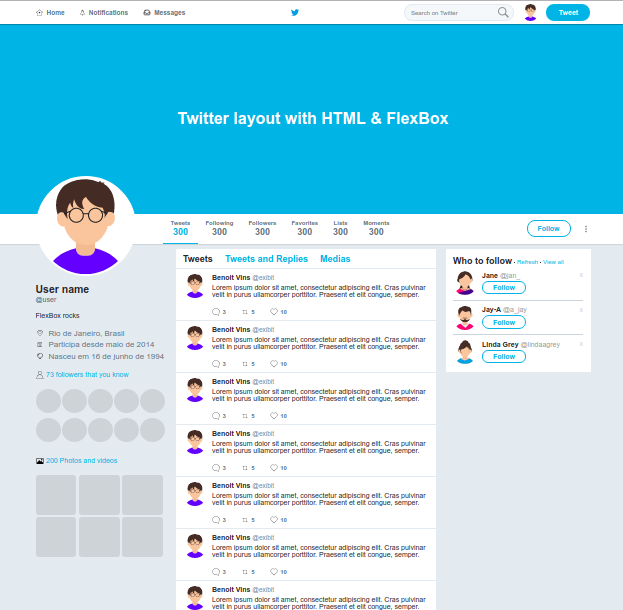
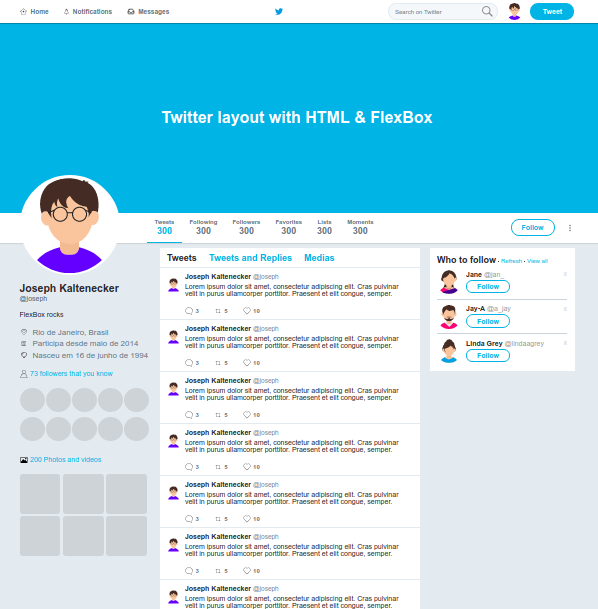
Fix

diff --git a/index.html b/index.html
@@ -68,8 +68,8 @@
     <div class="wrapper-content content">
       <aside class="profile">
         <img class="avatar" src="images/avatar.svg" alt="User">
-        <h1>User name</h1>
-        <span>@user</span>
+        <h1>Joseph Kaltenecker</h1>
+        <span>@joseph</span>
         <p>FlexBox rocks</p>
 
         <ul class="info">
@@ -126,202 +126,160 @@
         </nav>
 
         <ul class="tweets">
-          <li>
-            <img src="/images/avatar.svg" alt="Avatar">
-            <div class="info">
-              <strong>Benoit Vins <span>@exibit</span></strong>
-              <p>Lorem ipsum dolor sit amet, consectetur adipiscing elit. Cras pulvinar velit in purus ullamcorper porttitor. Praesent et elit congue, semper.
-              </p>
-              <div class="actions">
-                <a href=""><img class="images" src="/images/comment.svg" alt="Comments"> 3</a>
-                <a href=""><img class="images" src="/images/retweet.svg" alt="Retweets"> 5</a>
-                <a href=""><img class="images" src="/images/like.svg" alt="Likes"> 10</a>
+            <li>
+              <img src="/images/avatar.svg" alt="Avatar">
+              <div class="info">
+                <strong>Joseph Kaltenecker <span>@joseph</span></strong>
+                <p>Lorem ipsum dolor sit amet, consectetur adipiscing elit. Cras pulvinar velit in purus ullamcorper porttitor. Praesent et elit congue, semper.
+                </p>
+                <div class="actions">
+                  <a href=""><img class="images" src="/images/comment.svg" alt="Comments"> 3</a>
+                  <a href=""><img class="images" src="/images/retweet.svg" alt="Retweets"> 5</a>
+                  <a href=""><img class="images" src="/images/like.svg" alt="Likes"> 10</a>
+                </div>
+  
               </div>
+            </li>
+            <li>
+              <img src="/images/avatar.svg" alt="Avatar">
+              <div class="info">
+                <strong>Joseph Kaltenecker <span>@joseph</span></strong>
+                <p>Lorem ipsum dolor sit amet, consectetur adipiscing elit. Cras pulvinar velit in purus ullamcorper porttitor. Praesent et elit congue, semper.
+                </p>
+                <div class="actions">
+                  <a href=""><img class="images" src="/images/comment.svg" alt="Comments"> 3</a>
+                  <a href=""><img class="images" src="/images/retweet.svg" alt="Retweets"> 5</a>
+                  <a href=""><img class="images" src="/images/like.svg" alt="Likes"> 10</a>
+                </div>
 
-            </div>
-          </li>
-          <li>
-            <img src="/images/avatar.svg" alt="Avatar">
-            <div class="info">
-              <strong>Benoit Vins <span>@exibit</span></strong>
-              <p>Lorem ipsum dolor sit amet, consectetur adipiscing elit. Cras pulvinar velit in purus ullamcorper porttitor. Praesent et elit congue, semper.
-              </p>
-              <div class="actions">
-                <a href=""><img class="images" src="/images/comment.svg" alt="Comments"> 3</a>
-                <a href=""><img class="images" src="/images/retweet.svg" alt="Retweets"> 5</a>
-                <a href=""><img class="images" src="/images/like.svg" alt="Likes"> 10</a>
               </div>
-
-            </div>
-          </li>
-          <li>
-            <img src="/images/avatar.svg" alt="Avatar">
-            <div class="info">
-              <strong>Benoit Vins <span>@exibit</span></strong>
-              <p>Lorem ipsum dolor sit amet, consectetur adipiscing elit. Cras pulvinar velit in purus ullamcorper porttitor. Praesent et elit congue, semper.
-              </p>
-              <div class="actions">
-                <a href=""><img class="images" src="/images/comment.svg" alt="Comments"> 3</a>
-                <a href=""><img class="images" src="/images/retweet.svg" alt="Retweets"> 5</a>
-                <a href=""><img class="images" src="/images/like.svg" alt="Likes"> 10</a>
+            </li>                      
+            <li>
+              <img src="/images/avatar.svg" alt="Avatar">
+              <div class="info">
+                <strong>Joseph Kaltenecker <span>@joseph</span></strong>
+                <p>Lorem ipsum dolor sit amet, consectetur adipiscing elit. Cras pulvinar velit in purus ullamcorper porttitor. Praesent et elit congue, semper.
+                </p>
+                <div class="actions">
+                  <a href=""><img class="images" src="/images/comment.svg" alt="Comments"> 3</a>
+                  <a href=""><img class="images" src="/images/retweet.svg" alt="Retweets"> 5</a>
+                  <a href=""><img class="images" src="/images/like.svg" alt="Likes"> 10</a>
+                </div>
+  
               </div>
-
-            </div>
-          </li>
-          <li>
-            <img src="/images/avatar.svg" alt="Avatar">
-            <div class="info">
-              <strong>Benoit Vins <span>@exibit</span></strong>
-              <p>Lorem ipsum dolor sit amet, consectetur adipiscing elit. Cras pulvinar velit in purus ullamcorper porttitor. Praesent et elit congue, semper.
-              </p>
-              <div class="actions">
-                <a href=""><img class="images" src="/images/comment.svg" alt="Comments"> 3</a>
-                <a href=""><img class="images" src="/images/retweet.svg" alt="Retweets"> 5</a>
-                <a href=""><img class="images" src="/images/like.svg" alt="Likes"> 10</a>
+            </li>                      
+            <li>
+              <img src="/images/avatar.svg" alt="Avatar">
+              <div class="info">
+                <strong>Joseph Kaltenecker <span>@joseph</span></strong>
+                <p>Lorem ipsum dolor sit amet, consectetur adipiscing elit. Cras pulvinar velit in purus ullamcorper porttitor. Praesent et elit congue, semper.
+                </p>
+                <div class="actions">
+                  <a href=""><img class="images" src="/images/comment.svg" alt="Comments"> 3</a>
+                  <a href=""><img class="images" src="/images/retweet.svg" alt="Retweets"> 5</a>
+                  <a href=""><img class="images" src="/images/like.svg" alt="Likes"> 10</a>
+                </div>
+  
               </div>
-
-            </div>
-          </li>
-          <li>
-            <img src="/images/avatar.svg" alt="Avatar">
-            <div class="info">
-              <strong>Benoit Vins <span>@exibit</span></strong>
-              <p>Lorem ipsum dolor sit amet, consectetur adipiscing elit. Cras pulvinar velit in purus ullamcorper porttitor. Praesent et elit congue, semper.
-              </p>
-              <div class="actions">
-                <a href=""><img class="images" src="/images/comment.svg" alt="Comments"> 3</a>
-                <a href=""><img class="images" src="/images/retweet.svg" alt="Retweets"> 5</a>
-                <a href=""><img class="images" src="/images/like.svg" alt="Likes"> 10</a>
+            </li>                      
+            <li>
+              <img src="/images/avatar.svg" alt="Avatar">
+              <div class="info">
+                <strong>Joseph Kaltenecker <span>@joseph</span></strong>
+                <p>Lorem ipsum dolor sit amet, consectetur adipiscing elit. Cras pulvinar velit in purus ullamcorper porttitor. Praesent et elit congue, semper.
+                </p>
+                <div class="actions">
+                  <a href=""><img class="images" src="/images/comment.svg" alt="Comments"> 3</a>
+                  <a href=""><img class="images" src="/images/retweet.svg" alt="Retweets"> 5</a>
+                  <a href=""><img class="images" src="/images/like.svg" alt="Likes"> 10</a>
+                </div>
+  
               </div>
-
-            </div>
-          </li>
-          <li>
-            <img src="/images/avatar.svg" alt="Avatar">
-            <div class="info">
-              <strong>Benoit Vins <span>@exibit</span></strong>
-              <p>Lorem ipsum dolor sit amet, consectetur adipiscing elit. Cras pulvinar velit in purus ullamcorper porttitor. Praesent et elit congue, semper.
-              </p>
-              <div class="actions">
-                <a href=""><img class="images" src="/images/comment.svg" alt="Comments"> 3</a>
-                <a href=""><img class="images" src="/images/retweet.svg" alt="Retweets"> 5</a>
-                <a href=""><img class="images" src="/images/like.svg" alt="Likes"> 10</a>
+            </li>                      
+            <li>
+              <img src="/images/avatar.svg" alt="Avatar">
+              <div class="info">
+                <strong>Joseph Kaltenecker <span>@joseph</span></strong>
+                <p>Lorem ipsum dolor sit amet, consectetur adipiscing elit. Cras pulvinar velit in purus ullamcorper porttitor. Praesent et elit congue, semper.
+                </p>
+                <div class="actions">
+                  <a href=""><img class="images" src="/images/comment.svg" alt="Comments"> 3</a>
+                  <a href=""><img class="images" src="/images/retweet.svg" alt="Retweets"> 5</a>
+                  <a href=""><img class="images" src="/images/like.svg" alt="Likes"> 10</a>
+                </div>
+  
               </div>
-
-            </div>
-          </li>
-          <li>
-            <img src="/images/avatar.svg" alt="Avatar">
-            <div class="info">
-              <strong>Benoit Vins <span>@exibit</span></strong>
-              <p>Lorem ipsum dolor sit amet, consectetur adipiscing elit. Cras pulvinar velit in purus ullamcorper porttitor. Praesent et elit congue, semper.
-              </p>
-              <div class="actions">
-                <a href=""><img class="images" src="/images/comment.svg" alt="Comments"> 3</a>
-                <a href=""><img class="images" src="/images/retweet.svg" alt="Retweets"> 5</a>
-                <a href=""><img class="images" src="/images/like.svg" alt="Likes"> 10</a>
+            </li>                      
+            <li>
+              <img src="/images/avatar.svg" alt="Avatar">
+              <div class="info">
+                <strong>Joseph Kaltenecker <span>@joseph</span></strong>
+                <p>Lorem ipsum dolor sit amet, consectetur adipiscing elit. Cras pulvinar velit in purus ullamcorper porttitor. Praesent et elit congue, semper.
+                </p>
+                <div class="actions">
+                  <a href=""><img class="images" src="/images/comment.svg" alt="Comments"> 3</a>
+                  <a href=""><img class="images" src="/images/retweet.svg" alt="Retweets"> 5</a>
+                  <a href=""><img class="images" src="/images/like.svg" alt="Likes"> 10</a>
+                </div>
+  
               </div>
-
-            </div>
-          </li>
-          <li>
-            <img src="/images/avatar.svg" alt="Avatar">
-            <div class="info">
-              <strong>Benoit Vins <span>@exibit</span></strong>
-              <p>Lorem ipsum dolor sit amet, consectetur adipiscing elit. Cras pulvinar velit in purus ullamcorper porttitor. Praesent et elit congue, semper.
-              </p>
-              <div class="actions">
-                <a href=""><img class="images" src="/images/comment.svg" alt="Comments"> 3</a>
-                <a href=""><img class="images" src="/images/retweet.svg" alt="Retweets"> 5</a>
-                <a href=""><img class="images" src="/images/like.svg" alt="Likes"> 10</a>
+            </li>                      
+            <li>
+              <img src="/images/avatar.svg" alt="Avatar">
+              <div class="info">
+                <strong>Joseph Kaltenecker <span>@joseph</span></strong>
+                <p>Lorem ipsum dolor sit amet, consectetur adipiscing elit. Cras pulvinar velit in purus ullamcorper porttitor. Praesent et elit congue, semper.
+                </p>
+                <div class="actions">
+                  <a href=""><img class="images" src="/images/comment.svg" alt="Comments"> 3</a>
+                  <a href=""><img class="images" src="/images/retweet.svg" alt="Retweets"> 5</a>
+                  <a href=""><img class="images" src="/images/like.svg" alt="Likes"> 10</a>
+                </div>
+  
               </div>
-
-            </div>
-          </li>
-          <li>
-            <img src="/images/avatar.svg" alt="Avatar">
-            <div class="info">
-              <strong>Benoit Vins <span>@exibit</span></strong>
-              <p>Lorem ipsum dolor sit amet, consectetur adipiscing elit. Cras pulvinar velit in purus ullamcorper porttitor. Praesent et elit congue, semper.
-              </p>
-              <div class="actions">
-                <a href=""><img class="images" src="/images/comment.svg" alt="Comments"> 3</a>
-                <a href=""><img class="images" src="/images/retweet.svg" alt="Retweets"> 5</a>
-                <a href=""><img class="images" src="/images/like.svg" alt="Likes"> 10</a>
+            </li>                      
+            <li>
+              <img src="/images/avatar.svg" alt="Avatar">
+              <div class="info">
+                <strong>Joseph Kaltenecker <span>@joseph</span></strong>
+                <p>Lorem ipsum dolor sit amet, consectetur adipiscing elit. Cras pulvinar velit in purus ullamcorper porttitor. Praesent et elit congue, semper.
+                </p>
+                <div class="actions">
+                  <a href=""><img class="images" src="/images/comment.svg" alt="Comments"> 3</a>
+                  <a href=""><img class="images" src="/images/retweet.svg" alt="Retweets"> 5</a>
+                  <a href=""><img class="images" src="/images/like.svg" alt="Likes"> 10</a>
+                </div>
+  
               </div>
-
-            </div>
-          </li>
-          <li>
-            <img src="/images/avatar.svg" alt="Avatar">
-            <div class="info">
-              <strong>Benoit Vins <span>@exibit</span></strong>
-              <p>Lorem ipsum dolor sit amet, consectetur adipiscing elit. Cras pulvinar velit in purus ullamcorper porttitor. Praesent et elit congue, semper.
-              </p>
-              <div class="actions">
-                <a href=""><img class="images" src="/images/comment.svg" alt="Comments"> 3</a>
-                <a href=""><img class="images" src="/images/retweet.svg" alt="Retweets"> 5</a>
-                <a href=""><img class="images" src="/images/like.svg" alt="Likes"> 10</a>
+            </li>                      
+            <li>
+              <img src="/images/avatar.svg" alt="Avatar">
+              <div class="info">
+                <strong>Joseph Kaltenecker <span>@joseph</span></strong>
+                <p>Lorem ipsum dolor sit amet, consectetur adipiscing elit. Cras pulvinar velit in purus ullamcorper porttitor. Praesent et elit congue, semper.
+                </p>
+                <div class="actions">
+                  <a href=""><img class="images" src="/images/comment.svg" alt="Comments"> 3</a>
+                  <a href=""><img class="images" src="/images/retweet.svg" alt="Retweets"> 5</a>
+                  <a href=""><img class="images" src="/images/like.svg" alt="Likes"> 10</a>
+                </div>
+  
               </div>
-
-            </div>
-          </li>
-          <li>
-            <img src="/images/avatar.svg" alt="Avatar">
-            <div class="info">
-              <strong>Benoit Vins <span>@exibit</span></strong>
-              <p>Lorem ipsum dolor sit amet, consectetur adipiscing elit. Cras pulvinar velit in purus ullamcorper porttitor. Praesent et elit congue, semper.
-              </p>
-              <div class="actions">
-                <a href=""><img class="images" src="/images/comment.svg" alt="Comments"> 3</a>
-                <a href=""><img class="images" src="/images/retweet.svg" alt="Retweets"> 5</a>
-                <a href=""><img class="images" src="/images/like.svg" alt="Likes"> 10</a>
+            </li>                      
+            <li>
+              <img src="/images/avatar.svg" alt="Avatar">
+              <div class="info">
+                <strong>Joseph Kaltenecker <span>@joseph</span></strong>
+                <p>Lorem ipsum dolor sit amet, consectetur adipiscing elit. Cras pulvinar velit in purus ullamcorper porttitor. Praesent et elit congue, semper.
+                </p>
+                <div class="actions">
+                  <a href=""><img class="images" src="/images/comment.svg" alt="Comments"> 3</a>
+                  <a href=""><img class="images" src="/images/retweet.svg" alt="Retweets"> 5</a>
+                  <a href=""><img class="images" src="/images/like.svg" alt="Likes"> 10</a>
+                </div>
+  
               </div>
-
-            </div>
-          </li>
-          <li>
-            <img src="/images/avatar.svg" alt="Avatar">
-            <div class="info">
-              <strong>Benoit Vins <span>@exibit</span></strong>
-              <p>Lorem ipsum dolor sit amet, consectetur adipiscing elit. Cras pulvinar velit in purus ullamcorper porttitor. Praesent et elit congue, semper.
-              </p>
-              <div class="actions">
-                <a href=""><img class="images" src="/images/comment.svg" alt="Comments"> 3</a>
-                <a href=""><img class="images" src="/images/retweet.svg" alt="Retweets"> 5</a>
-                <a href=""><img class="images" src="/images/like.svg" alt="Likes"> 10</a>
-              </div>
-
-            </div>
-          </li>
-          <li>
-            <img src="/images/avatar.svg" alt="Avatar">
-            <div class="info">
-              <strong>Benoit Vins <span>@exibit</span></strong>
-              <p>Lorem ipsum dolor sit amet, consectetur adipiscing elit. Cras pulvinar velit in purus ullamcorper porttitor. Praesent et elit congue, semper.
-              </p>
-              <div class="actions">
-                <a href=""><img class="images" src="/images/comment.svg" alt="Comments"> 3</a>
-                <a href=""><img class="images" src="/images/retweet.svg" alt="Retweets"> 5</a>
-                <a href=""><img class="images" src="/images/like.svg" alt="Likes"> 10</a>
-              </div>
-
-            </div>
-          </li>
-          <li>
-            <img src="/images/avatar.svg" alt="Avatar">
-            <div class="info">
-              <strong>Benoit Vins <span>@exibit</span></strong>
-              <p>Lorem ipsum dolor sit amet, consectetur adipiscing elit. Cras pulvinar velit in purus ullamcorper porttitor. Praesent et elit congue, semper.
-              </p>
-              <div class="actions">
-                <a href=""><img class="images" src="/images/comment.svg" alt="Comments"> 3</a>
-                <a href=""><img class="images" src="/images/retweet.svg" alt="Retweets"> 5</a>
-                <a href=""><img class="images" src="/images/like.svg" alt="Likes"> 10</a>
-              </div>
-
-            </div>
-          </li>                                          
+            </li>                                                        
         </ul>
       </section>
 
